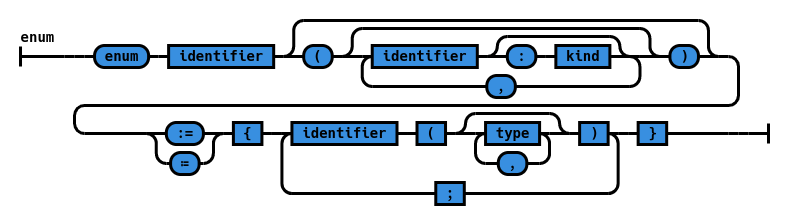
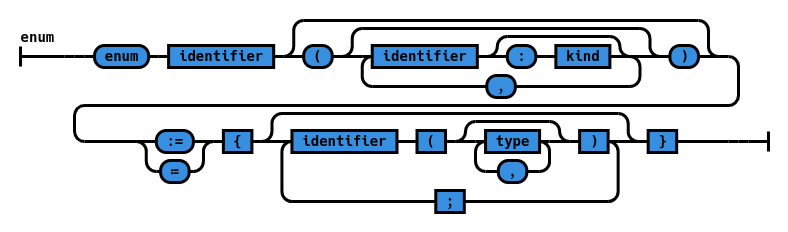
allow records and enums not to have fields/constructors

diff --git a/railroad-diagrams.py b/railroad-diagrams.py
@@ -1139,7 +1139,7 @@ def zilch_enum():
 				Terminal('≔')
 			),
 			NonTerminal('{'),
-			OneOrMore(
+			ZeroOrMore(
 				Sequence(
 					NonTerminal('identifier'),
 					NonTerminal('('),
@@ -1188,7 +1188,7 @@ def zilch_record():
 				Terminal('≔')
 			),
 			NonTerminal('{'),
-			OneOrMore(
+			ZeroOrMore(
 				Sequence(
 					NonTerminal('identifier'),
 					Terminal(':'),
@@ -1675,4 +1675,4 @@ def zilch_letin():
 
 	return mk_diagram2('let-in', inner)
 
-zilch_function_declaration().writeSvg(sys.stdout.write)
+zilch_record().writeSvg(sys.stdout.write)
